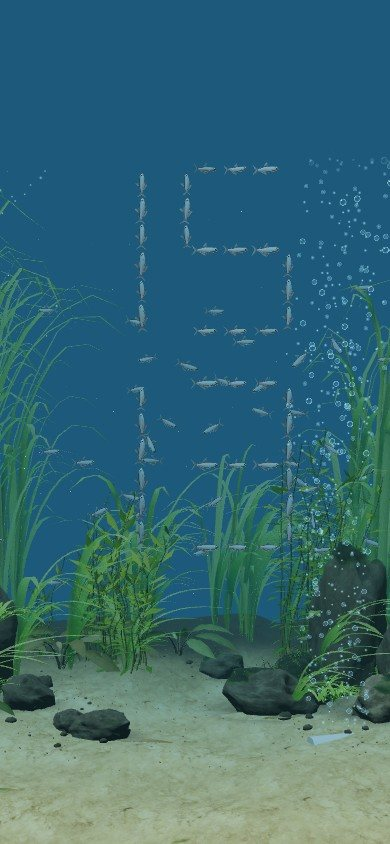
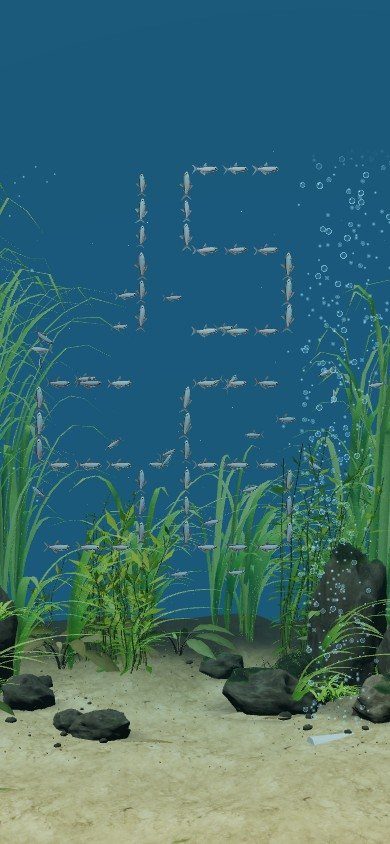
Updated readme and text on page

diff --git a/index.html b/index.html
@@ -149,7 +149,7 @@
       .sub {
         font-size: clamp(1rem, 1.4vw, 1.12rem);
         line-height: 1.65;
-        color: var(--muted);
+        color: rgba(226, 240, 232, 0.82); /* brighter than --muted, which was too dim over the planting */
         margin: 0 0 34px;
         max-width: 46ch;
       }
@@ -178,11 +178,11 @@
         align-items: flex-end;
         padding: 0 0 26px;
         font-size: 11.5px;
-        color: var(--faint);
+        color: rgba(226, 240, 232, 0.6); /* brighter than --faint, which was too dim over the planting */
         letter-spacing: 0.02em;
       }
       .status { display: flex; gap: 22px; }
-      .status b { font-weight: 400; color: rgba(226, 240, 232, 0.62); }
+      .status b { font-weight: 400; color: rgba(226, 240, 232, 0.82); }
 
       /* iOS Safari: 100% can be taller than what is actually visible */
       @supports (height: 100dvh) { .page { height: 100dvh; } }
@@ -206,6 +206,15 @@
       @media (max-aspect-ratio: 1/1) and (max-width: 600px) {
         .sub, .eyebrow, .stat { display: none; }
         main { padding-bottom: 8px; }
+      }
+      /* a soft dark halo behind the words, so they stay legible over the busy planting. Not on
+         the buttons: dark text on a white pill would only blur. */
+      .page h1, .page .brand {
+        text-shadow: 0 1px 3px rgba(3, 12, 18, 0.7), 0 0 26px rgba(3, 12, 18, 0.6);
+      }
+      /* small, light text needs a denser halo than the headline does */
+      .page .sub, .page footer {
+        text-shadow: 0 0 2px rgba(3, 12, 18, 0.95), 0 0 9px rgba(3, 12, 18, 0.9), 0 0 22px rgba(3, 12, 18, 0.65);
       }
       /* a quiet link to the source, in the footer */
       /* padding with an equal negative margin: a thumb-sized target that does not move the layout */
@@ -280,7 +289,7 @@
 
       <footer>
         <div class="status">
-          <span class="stat"><b id="fishcount">84</b> neons, 2 clowns</span>
+          <span class="stat"><b id="fishcount">84</b> neons, <b>2</b> clowns</span>
           <span class="stat">seven-segment digits</span>
           <span>render <b id="state">…</b></span>
           <span class="stat">forms <b>on the minute</b></span>
@@ -5045,7 +5054,7 @@ async function createRiverscape(canvas, options = {}) {
 
   const scene = new THREE.Scene();
   scene.background = new THREE.Color('#0a2a42');
-  scene.fog = new THREE.FogExp2('#1f5878', 0.034);
+  scene.fog = new THREE.FogExp2('#1f5878', 0.024);
 
   const camera = new THREE.PerspectiveCamera(25.8, 16 / 9, 0.2, 70);
   camera.position.set(0, 4.65, 20.5);
@@ -5102,7 +5111,9 @@ async function createRiverscape(canvas, options = {}) {
     new THREE.MeshStandardMaterial({ color: 0x2a6688, roughness: 1 }),
   );
   backboard.position.set(0, 7, -7.2);
-  backboard.receiveShadow = true;
+  // No shadows on the back panel: the planting's shadows fell on it as long dark smudges,
+  // which read as dirt on the glass rather than depth. They still fall on the sand and stones.
+  backboard.receiveShadow = false;
   scene.add(backboard);
 
   /* -- the tank ------------------------------------------------------ */

diff --git a/src/scene/riverscape.js b/src/scene/riverscape.js
@@ -998,7 +998,7 @@ export async function createRiverscape(canvas, options = {}) {
 
   const scene = new THREE.Scene();
   scene.background = new THREE.Color('#0a2a42');
-  scene.fog = new THREE.FogExp2('#1f5878', 0.034);
+  scene.fog = new THREE.FogExp2('#1f5878', 0.024);
 
   const camera = new THREE.PerspectiveCamera(25.8, 16 / 9, 0.2, 70);
   camera.position.set(0, 4.65, 20.5);
@@ -1055,7 +1055,9 @@ export async function createRiverscape(canvas, options = {}) {
     new THREE.MeshStandardMaterial({ color: 0x2a6688, roughness: 1 }),
   );
   backboard.position.set(0, 7, -7.2);
-  backboard.receiveShadow = true;
+  // No shadows on the back panel: the planting's shadows fell on it as long dark smudges,
+  // which read as dirt on the glass rather than depth. They still fall on the sand and stones.
+  backboard.receiveShadow = false;
   scene.add(backboard);
 
   /* -- the tank ------------------------------------------------------ */

diff --git a/README.md b/README.md
@@ -12,12 +12,12 @@ to tell the time.
 ## The story
 
 **Aqua Clock** launched on the [App Store](https://apps.apple.com/gb/app/aqua-clock/id6760460959) in March 2026: a tank where the fish tell
-the time. It was built to be light weight and battery friendly - see the post written up at Digital Urban
+the time. It was built to be lightweight and battery friendly - see the post written up at Digital Urban
 [*Multi-Model Vibe Coding, Boids, and the Fish That Tell the Time*](https://connected-environments.org/blog/2026-03-20-aqua-clock-vibe-coding-boids-fish-tell-time/).
 
 Six months on, we came across [**Desktop Habitats**](https://github.com/chaseleantj/desktop-habitats), Chase Lean's amazing open-source
 (MIT) live aquarium wallpaper for macOS, whose tank is photoreal: a very different world from
-the Aqua Clocks flat 2D scene. As such the draw to update our time telling aquairum was strong and we pointed Claudes latest model at the Habitats repositor. It read the Habitats code, brought
+Aqua Clock's flat 2D scene. As such the draw to update our time-telling aquarium was strong and we pointed Claude's latest model at the Habitats repository. It read the Habitats code, brought
 the tank in (with credit, see below), and built the clock, the clownfish, the bubbles and
 their behaviour on top. This repo is the result: a new, web-based Aqua Clock that runs in
 any browser.
@@ -54,7 +54,7 @@ any browser.
 >   with our own proportions) and everything above the tank: the clock, the clownfish
 >   behaviour, the bubbles, the fog, the air stone, the pump and the page.
 >
-> What this repo adds is a our previous concept of Fish Telling the time, a pair of clownfish, glassy bubbles, and a hosted web page tuned for phones and tablets.
+> What this repo adds is our previous concept of fish telling the time, a pair of clownfish, glassy bubbles, and a hosted web page tuned for phones and tablets. Not affiliated with, or endorsed by, Habitats or Chase Lean.
 
 ## The app
 
